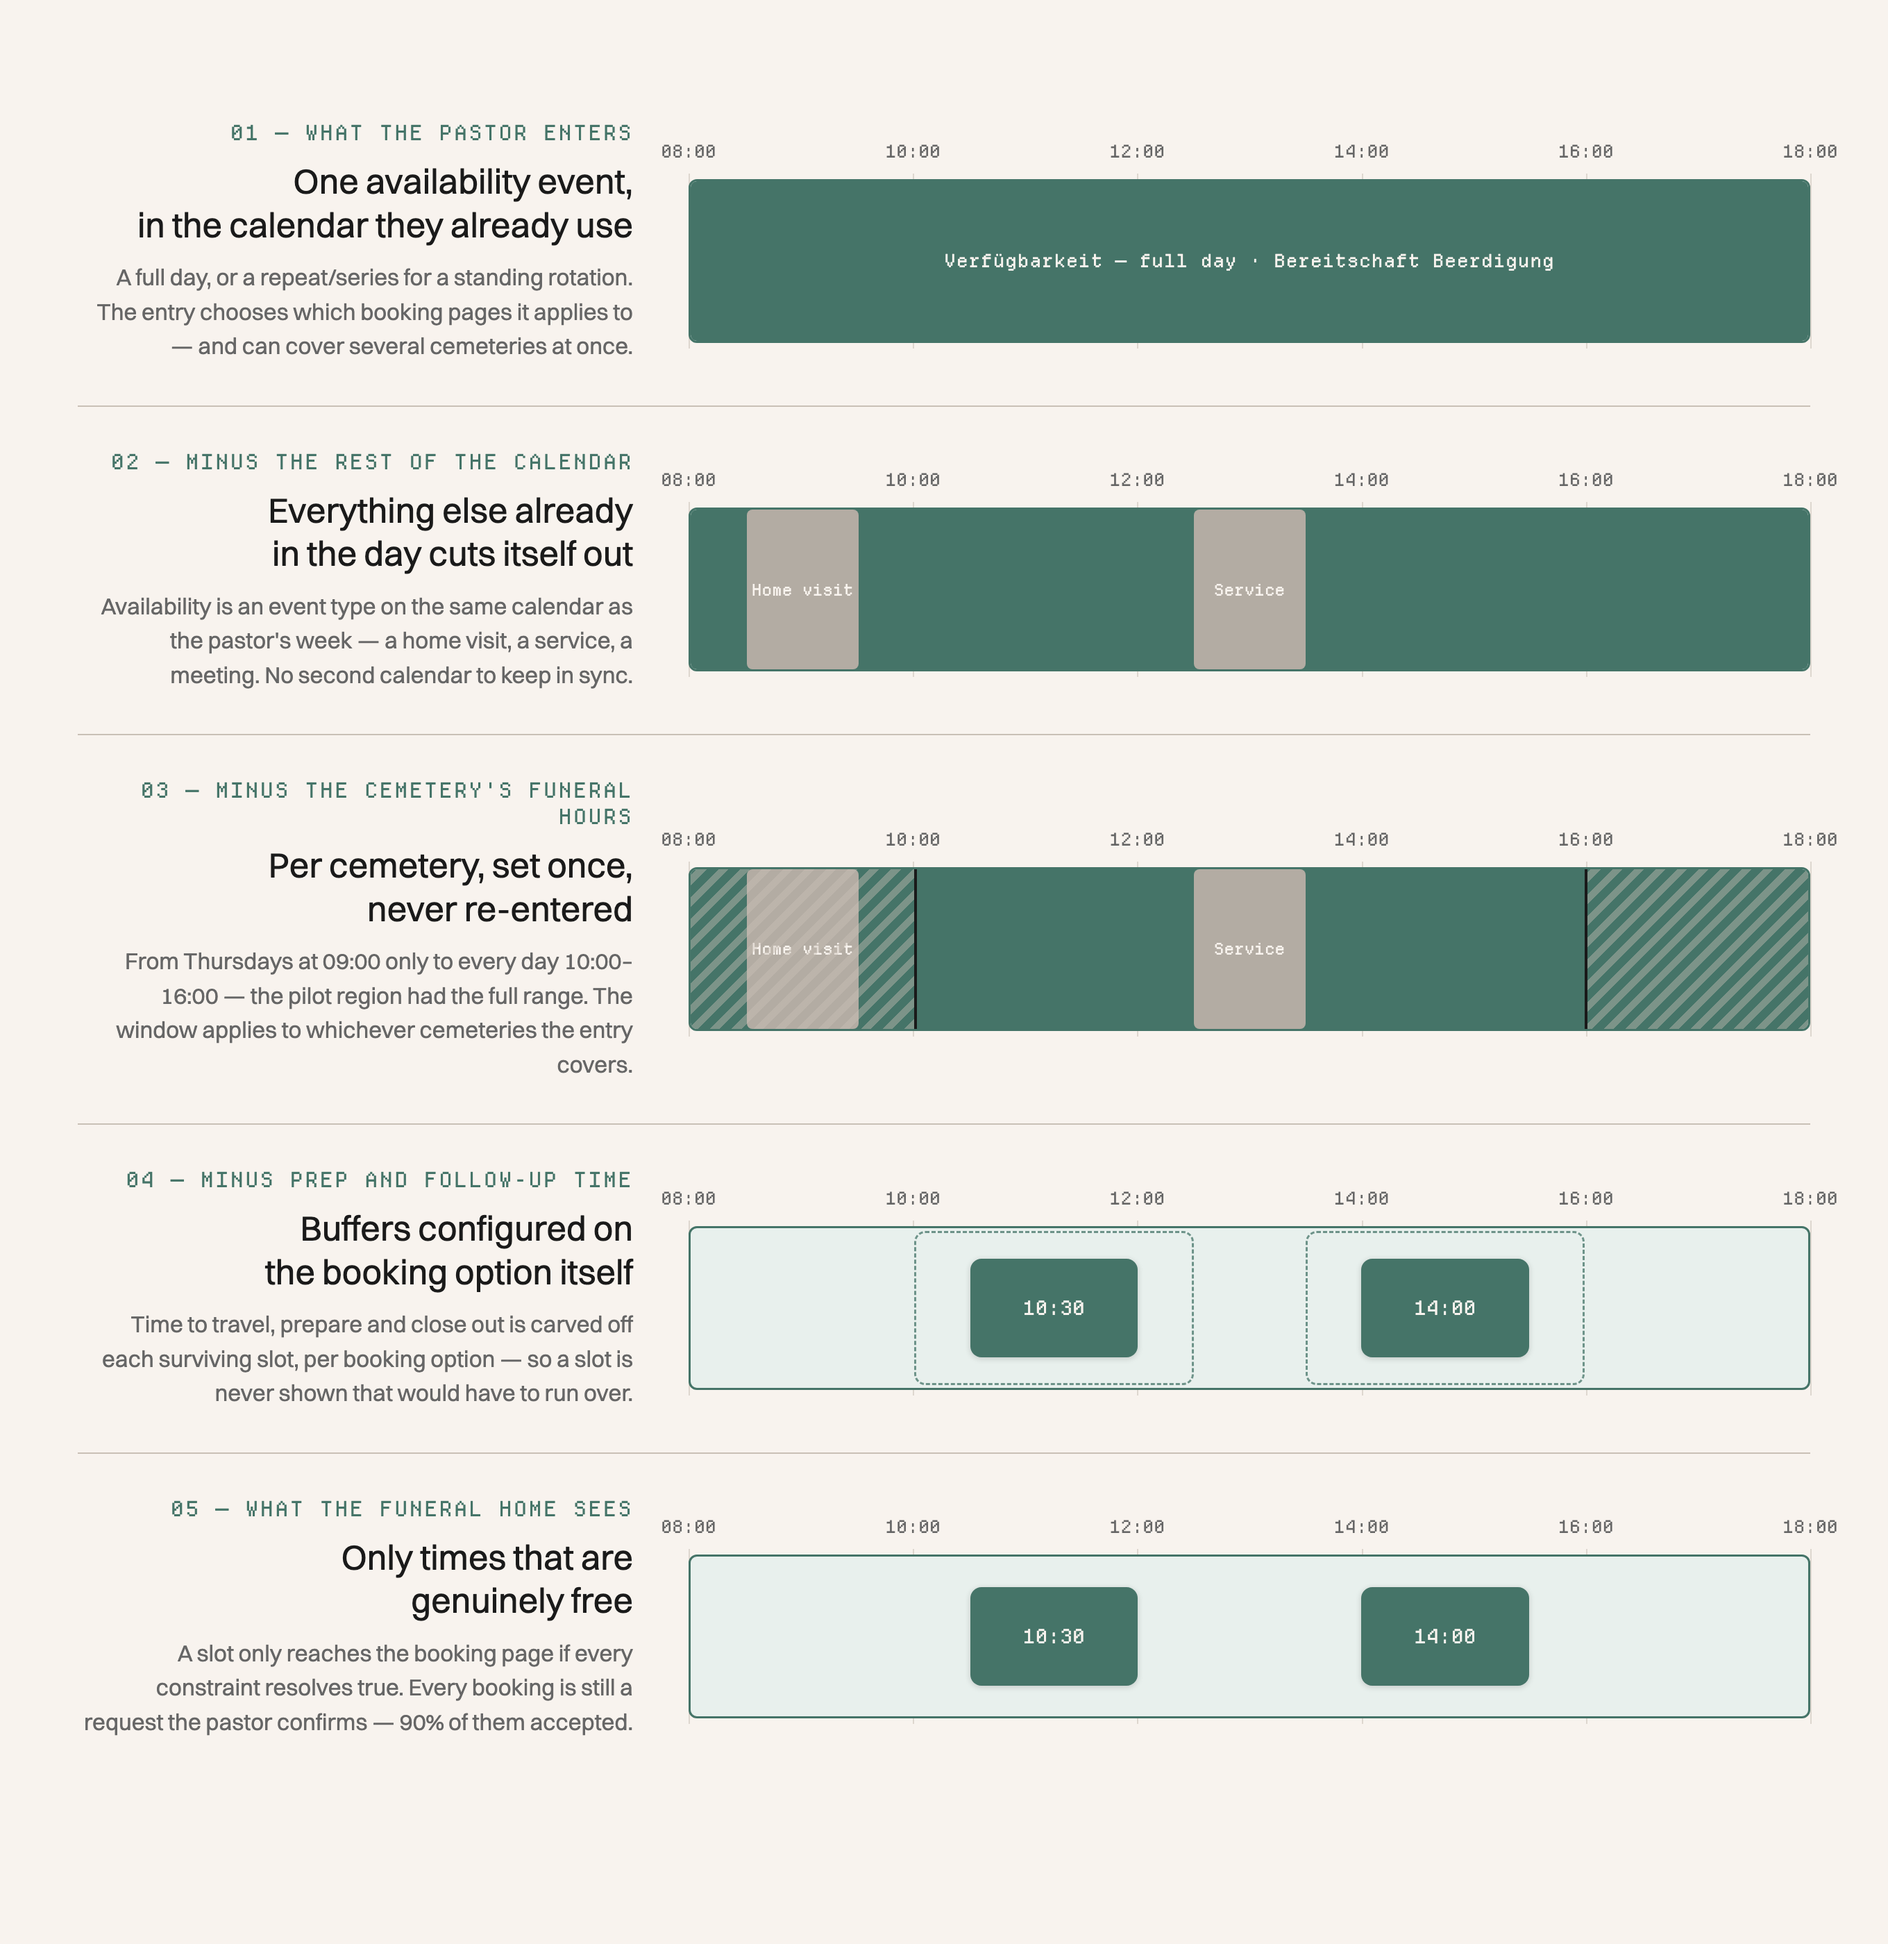
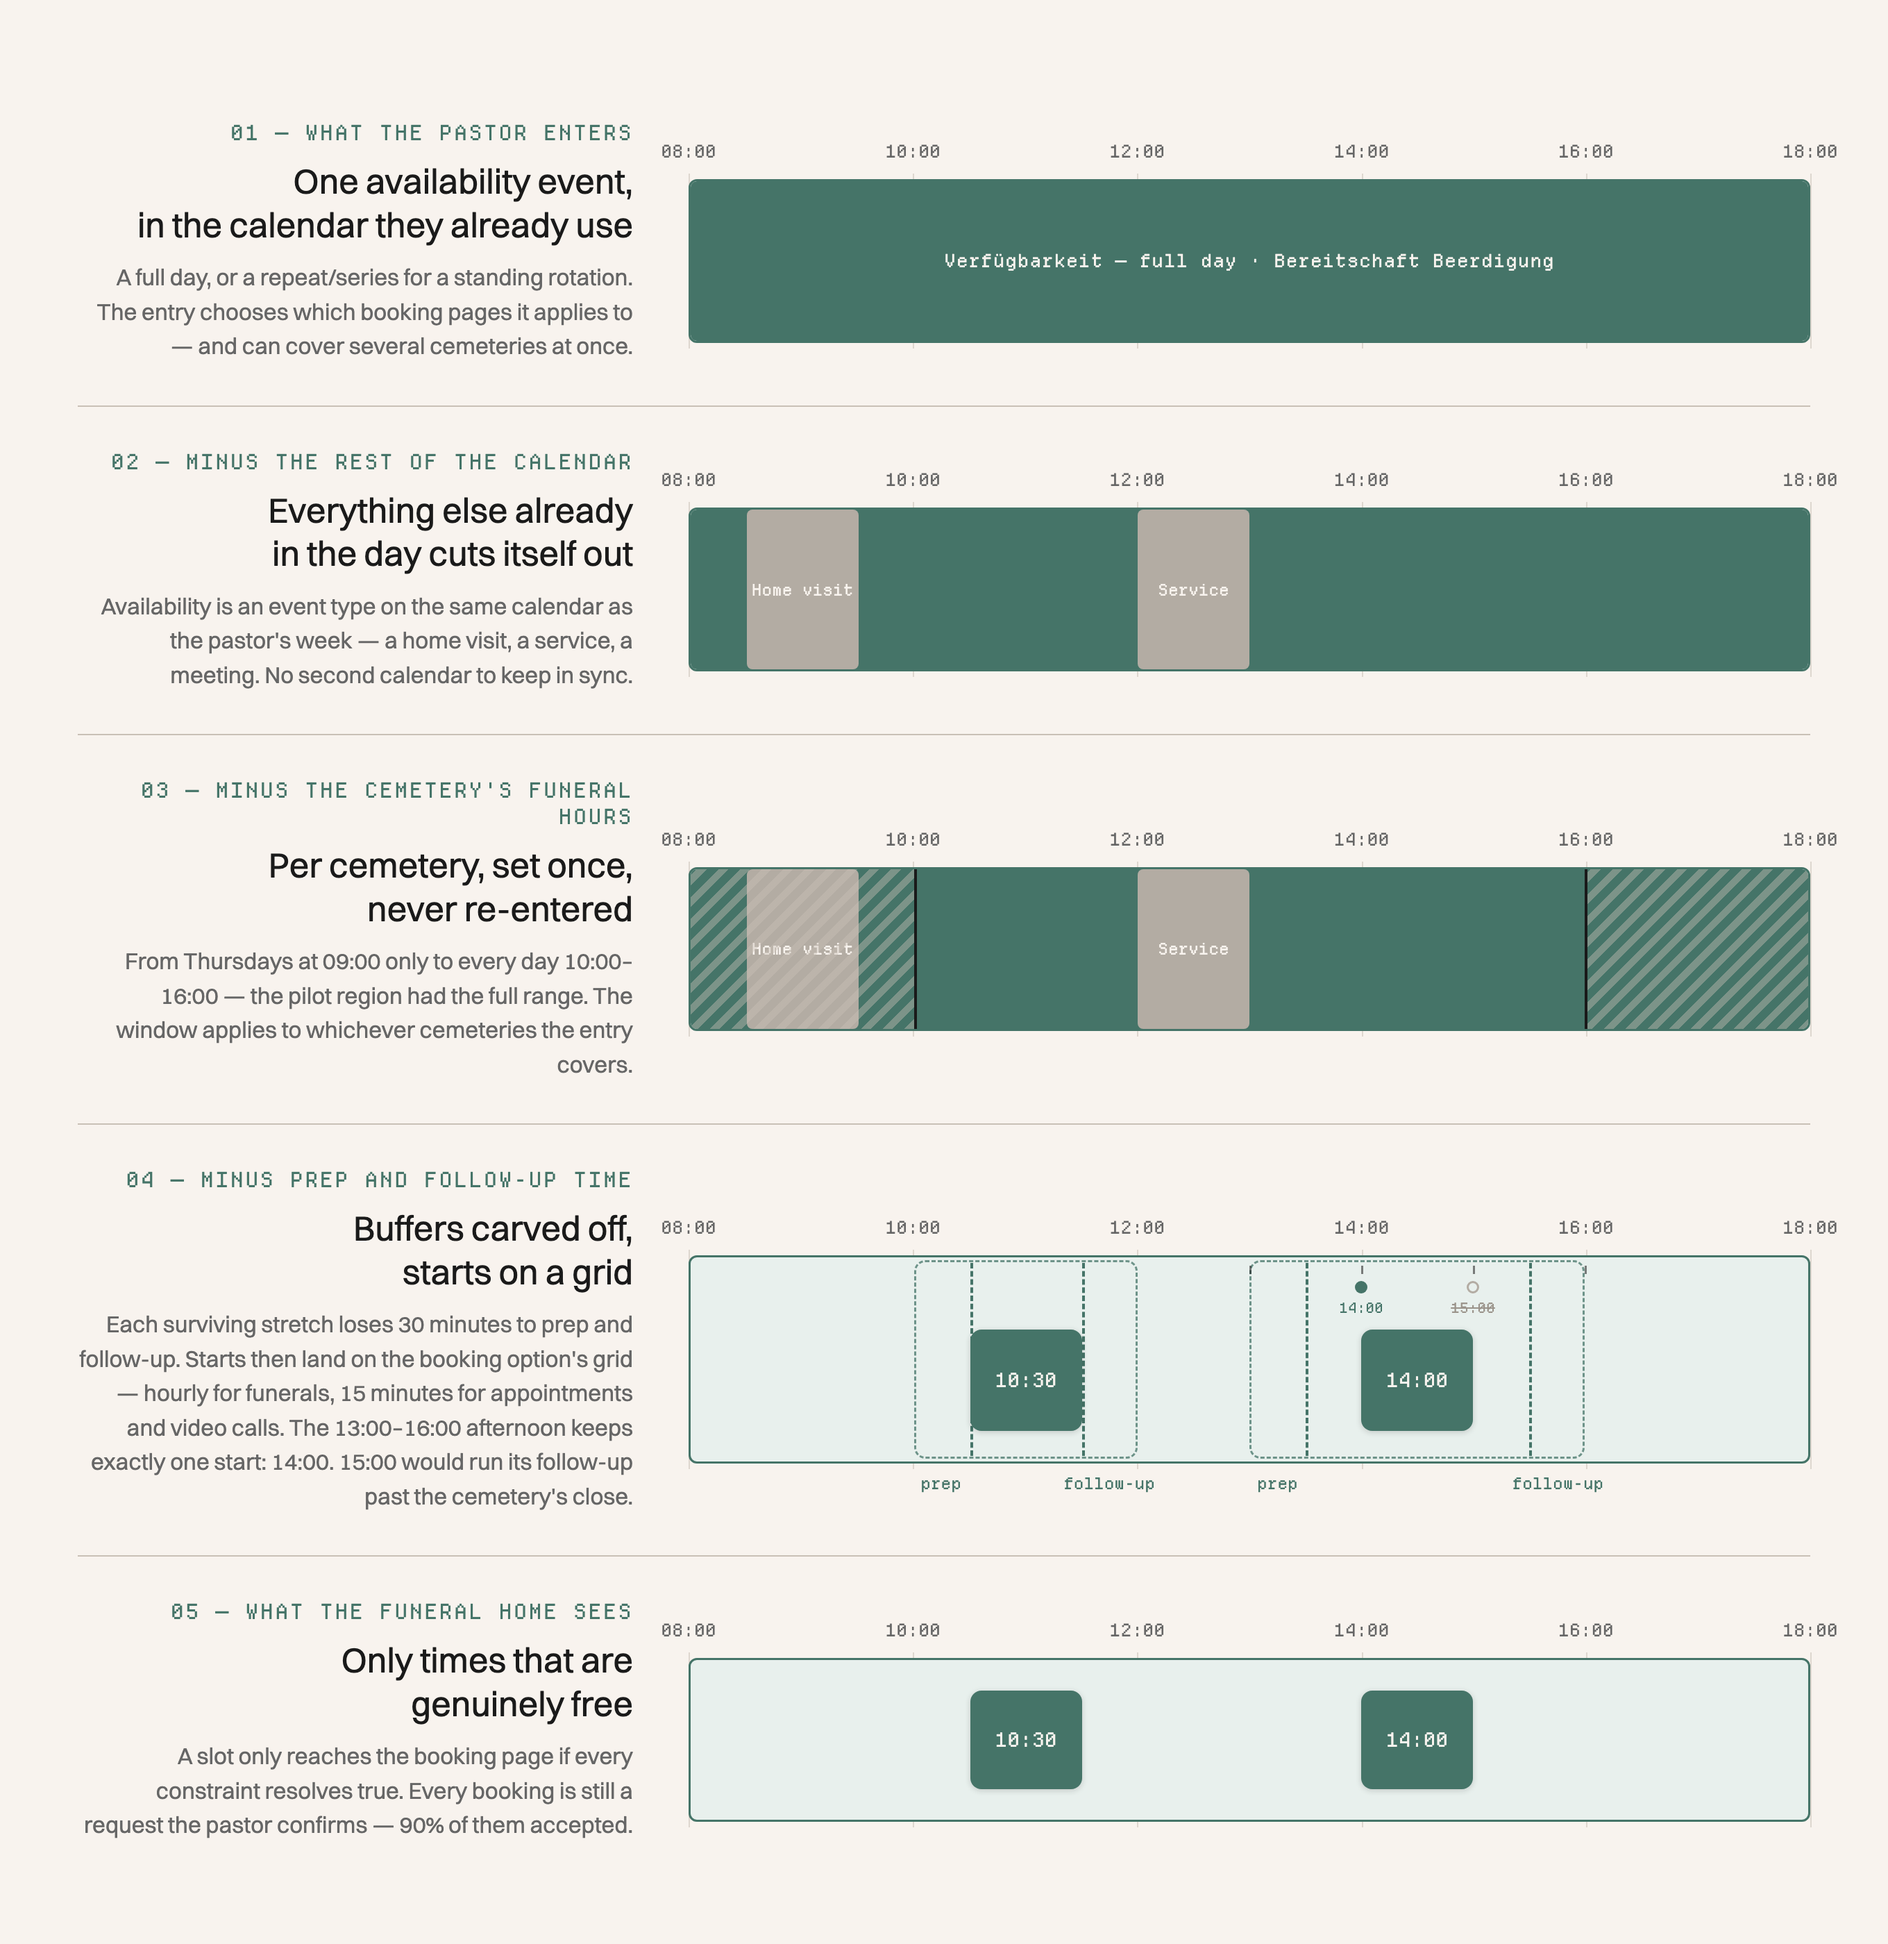
ChurchDesk diagram stage 04: buffers + hourly start grid actually filter
With the service at 12:00, the afternoon stretch (13:00-16:00) now shows
its 30-min prep/follow-up cuts, an hourly increment grid with candidate
starts (14:00 survives, 15:00 struck out — follow-up would overrun the
cemetery's close), and exactly one surviving slot. Morning keeps 10:30.
Buffer labels rendered under the strip; study JSON alt/caption synced.

diff --git a/video/churchdesk-booking-system-glm/diagram-src/availability-pipeline.html b/video/churchdesk-booking-system-glm/diagram-src/availability-pipeline.html
@@ -59,7 +59,6 @@
     margin-bottom: 10px;
   }
   .stage-name { font-size: 25px; font-weight: 600; line-height: 1.25; }
-  .stage-name .op { color: var(--accent); font-weight: 700; }
   .stage-sub { margin-top: 10px; font-size: 16.5px; line-height: 1.5; color: var(--muted); }
 
   /* the calendar strip */
@@ -71,6 +70,7 @@
     border-radius: 6px;
     overflow: hidden;
   }
+  .day.tall { height: 150px; }
   .hours {
     position: relative;
     height: 22px;
@@ -137,46 +137,58 @@
     background: var(--ink);
     z-index: 4;
   }
-  .window-note {
+  .ghost {
     position: absolute;
-    top: -34px;
-    transform: translateX(-50%);
-    font-family: "Departure Mono", ui-monospace, monospace;
-    font-size: 12.5px;
-    color: var(--ink);
-    white-space: nowrap;
-    z-index: 4;
+    top: 2px; bottom: 2px;
+    border: 1.5px dashed color-mix(in srgb, var(--accent) 75%, transparent);
+    border-radius: 8px;
+    z-index: 1;
   }
   .buffer-cut {
     position: absolute;
-    top: -4px; bottom: -4px;
+    top: 4px; bottom: 4px;
     width: 0;
     border-left: 2px dashed var(--accent);
-    z-index: 4;
+    z-index: 2;
   }
   .buffer-label {
     position: absolute;
-    top: -32px;
+    top: calc(100% + 7px);
     transform: translateX(-50%);
     font-family: "Departure Mono", ui-monospace, monospace;
-    font-size: 12px;
+    font-size: 11.5px;
     color: var(--accent);
     white-space: nowrap;
   }
-  .avail.dim {
-    background: color-mix(in srgb, var(--accent) 100%, transparent);
-  }
-  .slot {
+  .incr-tick {
     position: absolute;
-    top: 0; bottom: 0;
-    background: var(--accent);
-    border-radius: 4px;
-    z-index: 1;
-    display: flex; align-items: center; justify-content: center;
-    color: #f8f3ee;
-    font-family: "Departure Mono", ui-monospace, monospace;
-    font-size: 13.5px;
+    top: 6px;
+    width: 1.5px;
+    height: 6px;
+    background: color-mix(in srgb, var(--ink) 55%, transparent);
+    z-index: 3;
   }
+  .cand {
+    position: absolute;
+    top: 17px;
+    width: 9px; height: 9px;
+    border-radius: 50%;
+    transform: translateX(-50%);
+    z-index: 3;
+  }
+  .cand.ok { background: var(--accent); }
+  .cand.rej { background: transparent; border: 1.5px solid var(--grey); }
+  .cand-tag {
+    position: absolute;
+    top: 30px;
+    transform: translateX(-50%);
+    font-family: "Departure Mono", ui-monospace, monospace;
+    font-size: 10px;
+    white-space: nowrap;
+    z-index: 3;
+  }
+  .cand-tag.ok { color: var(--accent); }
+  .cand-tag.rej { color: #9a938a; text-decoration: line-through; }
   .slot-final {
     position: absolute;
     top: 22px; bottom: 22px;
@@ -186,27 +198,9 @@
     display: flex; align-items: center; justify-content: center;
     font-family: "Departure Mono", ui-monospace, monospace;
     font-size: 14px;
-    z-index: 1;
+    z-index: 2;
     box-shadow: 0 1px 4px color-mix(in srgb, var(--ink) 18%, transparent);
   }
-  .ghost {
-    position: absolute;
-    top: 2px; bottom: 2px;
-    border: 1.5px dashed color-mix(in srgb, var(--accent) 75%, transparent);
-    border-radius: 8px;
-    z-index: 1;
-  }
-
-  .connector {
-    grid-column: 2;
-    height: 34px;
-    display: flex;
-    align-items: center;
-    padding-left: 56px;
-    margin-top: -26px;
-    margin-bottom: -14px;
-  }
-  .connector .line { display: none; }
 </style>
 </head>
 <body>
@@ -249,7 +243,7 @@
         <div class="day">
           <div class="avail" style="left:0%; width:100%"></div>
           <div class="other-event" style="left:5%; width:10%">Home visit</div>
-          <div class="other-event" style="left:45%; width:10%">Service</div>
+          <div class="other-event" style="left:40%; width:10%">Service</div>
         </div>
       </div>
     </div>
@@ -271,7 +265,7 @@
         <div class="day">
           <div class="avail" style="left:0%; width:100%"></div>
           <div class="other-event" style="left:5%; width:10%">Home visit</div>
-          <div class="other-event" style="left:45%; width:10%">Service</div>
+          <div class="other-event" style="left:40%; width:10%">Service</div>
           <div class="outside" style="left:0%; width:20%"></div>
           <div class="outside" style="left:80%; width:20%"></div>
           <div class="window-edge" style="left:20%"></div>
@@ -281,12 +275,12 @@
     </div>
   </div>
 
-  <!-- 04 minus prep & follow-up -->
+  <!-- 04 minus prep & follow-up, starts on a grid -->
   <div class="stage">
     <div class="stage-label">
       <div class="stage-num">04 — MINUS PREP AND FOLLOW-UP TIME</div>
-      <div class="stage-name">Buffers configured on<br>the booking option itself</div>
-      <div class="stage-sub">Time to travel, prepare and close out is carved off each surviving slot, per booking option — so a slot is never shown that would have to run over.</div>
+      <div class="stage-name">Buffers carved off,<br>starts on a grid</div>
+      <div class="stage-sub">Each surviving stretch loses 30 minutes to prep and follow-up. Starts then land on the booking option's grid — hourly for funerals, 15 minutes for appointments and video calls. The 13:00–16:00 afternoon keeps exactly one start: 14:00. 15:00 would run its follow-up past the cemetery's close.</div>
     </div>
     <div>
       <div class="hours">
@@ -294,12 +288,31 @@
       </div>
       <div class="track-wrap">
         <div class="tick" style="left:0%"></div><div class="tick" style="left:20%"></div><div class="tick" style="left:40%"></div><div class="tick" style="left:60%"></div><div class="tick" style="left:80%"></div><div class="tick" style="left:100%"></div>
-        <div class="day">
-          <div class="ghost" style="left:20%; width:25%"></div>
-          <div class="ghost" style="left:55%; width:25%"></div>
-          <div class="slot-final" style="left:25%; width:15%">10:30</div>
-          <div class="slot-final" style="left:60%; width:15%">14:00</div>
+        <div class="day tall">
+          <!-- morning: 10:00-12:00 raw, 30-min buffers both sides, 10:30 start -->
+          <div class="ghost" style="left:20%; width:20%"></div>
+          <div class="buffer-cut" style="left:25%"></div>
+          <div class="buffer-cut" style="left:35%"></div>
+          <div class="slot-final" style="left:25%; width:10%; top:52px;">10:30</div>
+          <!-- afternoon: 13:00-16:00 raw, hourly start grid, only 14:00 survives -->
+          <div class="ghost" style="left:50%; width:30%"></div>
+          <div class="buffer-cut" style="left:55%"></div>
+          <div class="buffer-cut" style="left:75%"></div>
+          <div class="incr-tick" style="left:50%"></div>
+          <div class="incr-tick" style="left:60%"></div>
+          <div class="incr-tick" style="left:70%"></div>
+          <div class="incr-tick" style="left:80%"></div>
+          <div class="cand ok" style="left:60%"></div>
+          <div class="cand-tag ok" style="left:60%">14:00</div>
+          <div class="cand rej" style="left:70%"></div>
+          <div class="cand-tag rej" style="left:70%">15:00</div>
+          <div class="slot-final" style="left:60%; width:10%; top:52px;">14:00</div>
         </div>
+        <!-- buffer labels under the strip -->
+        <div class="buffer-label" style="left:22.5%">prep</div>
+        <div class="buffer-label" style="left:37.5%">follow-up</div>
+        <div class="buffer-label" style="left:52.5%">prep</div>
+        <div class="buffer-label" style="left:77.5%">follow-up</div>
       </div>
     </div>
   </div>
@@ -318,8 +331,8 @@
       <div class="track-wrap">
         <div class="tick" style="left:0%"></div><div class="tick" style="left:20%"></div><div class="tick" style="left:40%"></div><div class="tick" style="left:60%"></div><div class="tick" style="left:80%"></div><div class="tick" style="left:100%"></div>
         <div class="day">
-          <div class="slot-final" style="left:25%; width:15%">10:30</div>
-          <div class="slot-final" style="left:60%; width:15%">14:00</div>
+          <div class="slot-final" style="left:25%; width:10%">10:30</div>
+          <div class="slot-final" style="left:60%; width:10%">14:00</div>
         </div>
       </div>
     </div>
